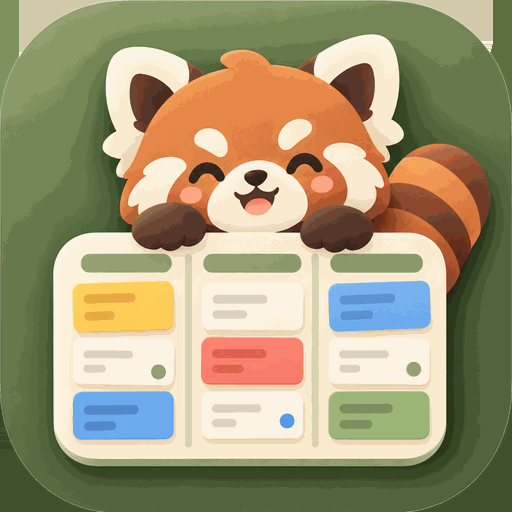
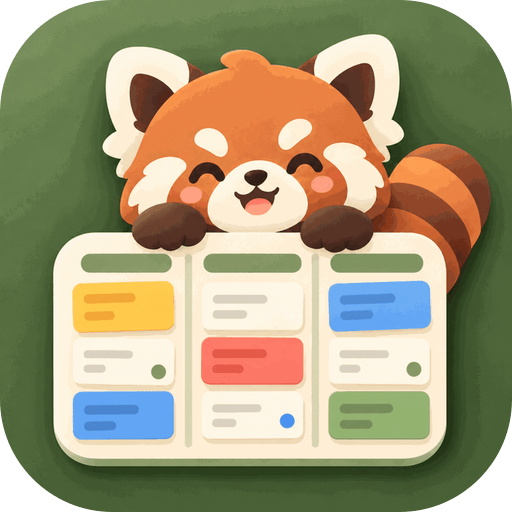
修复 PWA 圆角图标与 Safari 收藏及程序坞白边

diff --git a/tests/pwaAssets.test.ts b/tests/pwaAssets.test.ts
@@ -39,6 +39,7 @@ describe('PWA static assets', () => {
     expect(staticFiles.has('sw.js')).toBe(true);
     expect(staticFiles.has('icon-192.png')).toBe(true);
     expect(staticFiles.has('icon-512.png')).toBe(true);
+    expect(staticFiles.has('icon-maskable-1024.png')).toBe(true);
   });
 
   it('uses the configured PORT while preserving explicit and default port behavior', () => {
@@ -50,6 +51,7 @@ describe('PWA static assets', () => {
   it('defines an installable standalone manifest and exact-size icons', async () => {
     const indexHtml = await Bun.file('index.html').text();
     expect(indexHtml).toContain('<link rel="manifest" href="./public/manifest.webmanifest" />');
+    expect(indexHtml).toContain('<link rel="apple-touch-icon" sizes="180x180" href="./public/apple-touch-icon.png?v=2" />');
 
     const manifest = JSON.parse(
       await Bun.file('public/manifest.webmanifest').text(),
@@ -68,11 +70,14 @@ describe('PWA static assets', () => {
     expect(manifest.scope).toBe('/');
     expect(manifest.display).toBe('standalone');
     expect(manifest.icons).toEqual([
-      { src: '/icon-192.png', sizes: '192x192', type: 'image/png', purpose: 'any' },
-      { src: '/icon-512.png', sizes: '512x512', type: 'image/png', purpose: 'any' },
+      { src: '/icon-192.png?v=2', sizes: '192x192', type: 'image/png', purpose: 'any' },
+      { src: '/icon-512.png?v=2', sizes: '512x512', type: 'image/png', purpose: 'any' },
+      { src: '/icon-maskable-1024.png', sizes: '1024x1024', type: 'image/png', purpose: 'maskable' },
     ]);
     await expect(readPngDimensions('icon-192.png')).resolves.toEqual({ width: 192, height: 192 });
     await expect(readPngDimensions('icon-512.png')).resolves.toEqual({ width: 512, height: 512 });
+    await expect(readPngDimensions('icon-maskable-1024.png')).resolves.toEqual({ width: 1024, height: 1024 });
+    await expect(readPngDimensions('apple-touch-icon.png')).resolves.toEqual({ width: 180, height: 180 });
   });
 
   it('serves the manifest and service worker with update-safe headers', async () => {
@@ -84,6 +89,16 @@ describe('PWA static assets', () => {
     expect(manifestResponse.status).toBe(200);
     expect(manifestResponse.headers.get('content-type')).toContain('application/manifest+json');
     expect(manifestResponse.headers.get('cache-control')).toContain('no-cache');
+
+    const manifest = await manifestResponse.json() as { icons: Array<{ src: string }> };
+    for (const icon of manifest.icons) {
+      const response = await fetch(new URL(icon.src, baseUrl));
+      expect(response.status).toBe(200);
+      expect(response.headers.get('content-type')).toContain('image/png');
+    }
+    const appleIconResponse = await fetch(`${baseUrl}/apple-touch-icon.png?v=2`);
+    expect(appleIconResponse.status).toBe(200);
+    expect(appleIconResponse.headers.get('content-type')).toContain('image/png');
 
     const serviceWorkerResponse = await fetch(`${baseUrl}/sw.js`);
     expect(serviceWorkerResponse.status).toBe(200);

diff --git a/docs/index.html b/docs/index.html
@@ -9,8 +9,8 @@
   <meta name="keywords" content="喵爪看板,选题工作台,B站创作者,UP主生产力,叙事视频,执行清单,当前行动,选题看板,选题日历,文案写作,提词器,四幕叙事,发布包,Bun,SQLite,Docker部署" />
   
   <!-- Favicon -->
-  <link rel="icon" type="image/png" href="./icon.png" />
-  <link rel="apple-touch-icon" href="./apple-touch-icon.png" />
+  <link rel="icon" type="image/png" href="./icon.png?v=2" />
+  <link rel="apple-touch-icon" sizes="180x180" href="./apple-touch-icon.png?v=2" />
 
   <!-- Google Fonts: Inter & Noto Sans SC -->
   <link rel="preconnect" href="https://fonts.googleapis.com" />

diff --git a/index.html b/index.html
@@ -2,8 +2,8 @@
 <html lang="zh-CN">
   <head>
     <meta charset="UTF-8" />
-    <link rel="icon" type="image/png" href="./public/icon.png" />
-    <link rel="apple-touch-icon" href="./public/apple-touch-icon.png" />
+    <link rel="icon" type="image/png" href="./public/icon.png?v=2" />
+    <link rel="apple-touch-icon" sizes="180x180" href="./public/apple-touch-icon.png?v=2" />
     <link rel="manifest" href="./public/manifest.webmanifest" />
     <link rel="stylesheet" href="./public/tailwind.generated.css" />
     <meta name="viewport" content="width=device-width, initial-scale=1.0, viewport-fit=cover" />

diff --git a/scripts/build.ts b/scripts/build.ts
@@ -108,8 +108,10 @@ const precacheUrls = [
   '/index.html',
   '/today',
   '/manifest.webmanifest',
-  '/icon-192.png',
-  '/icon-512.png',
+  '/icon-192.png?v=2',
+  '/icon-512.png?v=2',
+  '/icon-maskable-1024.png',
+  '/apple-touch-icon.png?v=2',
   ...initialAssetUrls,
 ];
 const serviceWorkerPath = joinPath(distDir, 'sw.js');

diff --git a/src/server/server.ts b/src/server/server.ts
@@ -19,6 +19,7 @@ const DEFAULT_STATIC_FILES = [
   'sw.js',
   'icon-192.png',
   'icon-512.png',
+  'icon-maskable-1024.png',
 ];
 
 const BLOCKED_STATIC_FILE_NAMES = new Set([
